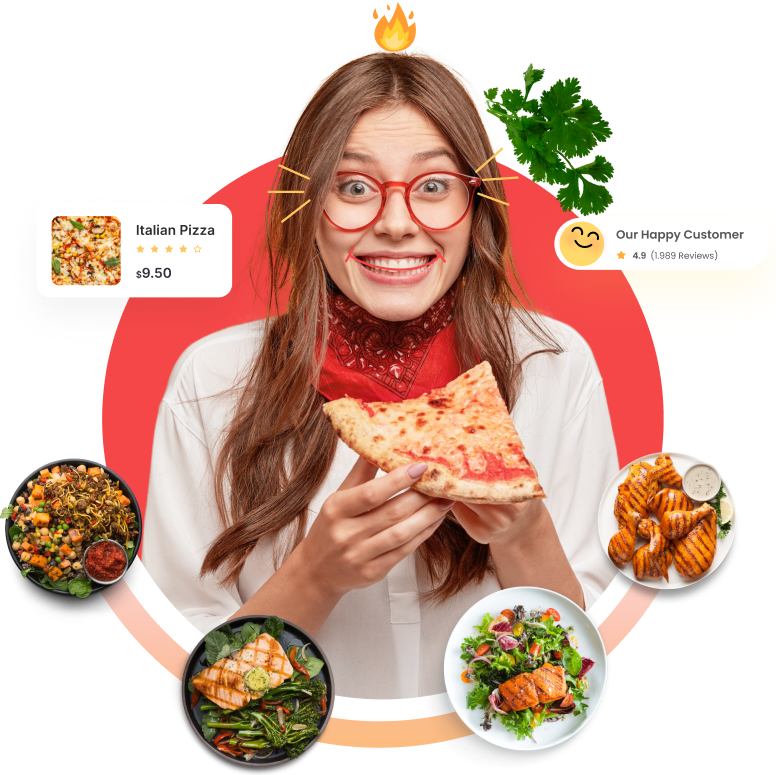
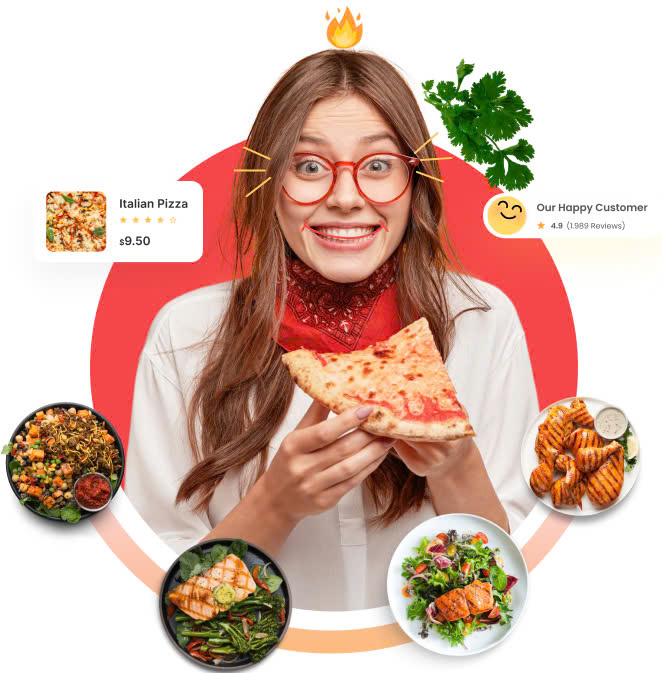
Update design for introduction section

diff --git a/Foodhut/src/styles/sections/introduction.css b/Foodhut/src/styles/sections/introduction.css
@@ -48,7 +48,7 @@
 }
 
 .header-decor {
-  margin-left: 12.125rem;
+  margin-left: 13.3rem;
   width: 263px;
   height: 8px;
 }
@@ -58,8 +58,8 @@
   font-size: var(--font-size-large);
   margin: 29px 0;
   font-weight: 400;
-  max-width: 75%;
-  line-height: 1.2;
+  max-width: 80%;
+  line-height: 1.3;
 }
 
 .search-box-container {
@@ -67,8 +67,7 @@
   border: 0.03125rem solid;
   border-radius: 6.25rem;
   justify-content: space-between;
-  max-width: 72.7%;
-  margin-top: 35px;
+  max-width: 74.7%;
 }
 
 .search-container {
@@ -108,7 +107,7 @@
 .play-button {
   padding: 0.875rem;
   border-radius: 50%;
-  margin: 1.5625rem; 
+  margin: 1.5625rem;
   box-shadow: 0.125rem 0.125rem 0.625rem var(--color-icon-wrapper);
   border: none;
   background-color: var(--color-light);
@@ -127,12 +126,12 @@
 }
 
 .illustrate-image {
-  width: 638px;
+  width: 668px;
   height: 657px;
-  margin-top: 32px;
+  margin-top: 16px;
 }
 
-@media (max-width: 1400px) { 
+@media (max-width: 1400px) {
   .header-decor {
     margin-left: 0rem;
   }
@@ -156,7 +155,7 @@
     font-weight: 400;
     max-width: 100%;
   }
-  
+
   .introduction-content-container {
     width: 100%;
   }
@@ -170,7 +169,7 @@
    width: 15.5rem;
    margin-left: 13rem;
   }
-  
+
   .illustrate-image {
     width: 25.75rem;
     height: 26rem;
@@ -182,12 +181,12 @@
   .header-decor {
     margin: 0;
   }
-  
+
   .header-introduction {
     text-align: left;
     max-width: 75%;
   }
-  
+
   .search-box-container {
     max-width: 88.5%;
     display: flex;
